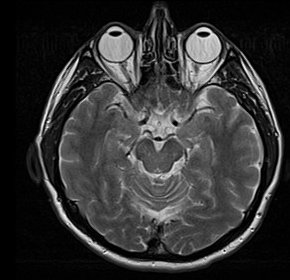
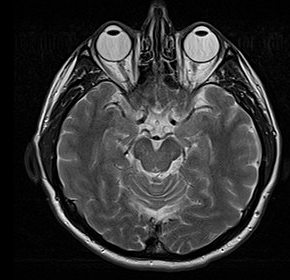
Brute Force rocks

diff --git a/BruteForce.py b/BruteForce.py
@@ -1,0 +1,108 @@
+import numpy as np
+import numpy.ma as ma
+from PIL import Image
+from interp import interpolation
+import matplotlib.pyplot as plt
+import matplotlib.colors as colr
+def readImages(u1,v1):
+	try:
+		u = np.asarray( Image.open(u1), dtype=np.float64)
+		u=u/np.max(u)
+		v = np.asarray( Image.open(v1), dtype=np.float64)
+		v=v/np.max(v)
+		return (u,v)
+	except IOError:
+		return -1
+def calcMI(up,vp,a,b):
+	MI=0
+	H,xedge,yedge = np.histogram2d(up,vp,[a,b])
+	JPDF = H/np.sum(H)
+	pdf1=np.asarray([np.sum(JPDF,1)]).T
+	pdf2=np.asarray([np.sum(JPDF,0)])
+	pdf1=np.tile(pdf1,(1,b))
+	pdf2=np.tile(pdf2,(a,1))
+	J=JPDF/(pdf1*pdf2)
+	J=ma.log(J)
+	J=JPDF*J
+	MI=np.sum(J)
+	return MI
+def pointFilt(t,points,C1,C2):
+	pointsn=points-C1
+	tran = np.matmul(t,pointsn)
+	tran =tran + C2
+	mask = np.logical_and(np.logical_and(tran[0,:] < C1[0]*2,tran[0,:] >= 0) , np.logical_and(tran[1,:] < C1[1]*2,tran[1,:] >= 0))
+	# print(mask)
+	Pu=(points.T[mask]).T
+	Pv=(tran.T[mask]).T
+	Pu=np.asarray(Pu[:2],dtype=np.int)
+	Pv=np.asarray(Pv[:2],dtype=np.int)
+	vp=v[Pv[1],Pv[0]]
+	up=u[Pu[1],Pu[0]]
+	return (up,vp)
+	# return points,tran
+
+im_1 = 'TestImages/test_mri.jpg'
+# im_2 = 'TestImages/test_mri.jpg'
+im_2 = 'TestImages/test_mri_translate2.jpg'
+# im_2 = 'TestImages/test_mri_rot2.jpg'
+# im_2 = 'TestImages/test_mri_rot.jpg'
+# im_2 = 'TestImages/test_mri_scale.jpg'
+# im_2 = 'TestImages/test_mri_shear.jpg'
+u,v=readImages(im_1,im_2)
+vintr=interpolation(v)
+# t=np.identity(3)
+t=np.array([[1,0,0],[0,1,0],[0,0,1]])
+C1=np.asarray([u.T.shape]).T/2.0
+C1=np.vstack((C1,np.zeros((1,1))))
+C2=np.asarray([u.T.shape]).T/2.0
+C2=np.vstack((C2,np.zeros((1,1))))
+pointy = np.tile(np.asarray([np.arange(u.shape[0])]).T,(1,u.shape[1]))
+pointx = np.tile(np.asarray([np.arange(u.shape[1])]),(u.shape[0],1))
+ones = np.ones(u.shape)
+points = np.stack((pointx,pointy,ones)).reshape(3,u.shape[0]*u.shape[1])
+a=101
+b=101
+m=0
+t1=0
+i1=0
+j1=0
+MI=np.zeros((9,9))
+for i in range(-20,21,5):
+	t[0][2]=i
+	for j in range(-20,21,5):
+		t[1][2]=j
+		up,vp=pointFilt(t,points,C1,C2)
+		k=calcMI(up,vp,a,b)
+		MI[(j+20)//5,(i+20)//5]=k
+		if(k>m):
+			m=k
+			t1=np.copy(t)
+	#T1 = np.linalg.inv(t)
+x = np.matmul(np.asarray([t1[:,0]]).T,np.asarray([np.tile(range(u.shape[1]), (u.shape[0], 1)).flatten()]) - u.shape[1]/2.0)
+y = np.matmul(np.asarray([t1[:,1]]).T,np.asarray([np.tile(np.array([range(u.shape[0])]).T, (1, u.shape[1])).flatten()]) - u.shape[0]/2.0)
+q = np.matmul(np.asarray([t1[:,2]]).T,np.ones((1,u.shape[0]*u.shape[1])))
+x = x + y + q + np.tile(np.array([[v.shape[1]/2.0, v.shape[0]/2.0, 0]]).T, [1,u.shape[0]*u.shape[1]])
+v1=np.zeros(u.shape[0]*u.shape[1])
+for u2 in range(0,v.shape[0]*v.shape[1]):
+  v1[u2]=vintr(x[1,u2], x[0,u2])
+v1 = v1.reshape(v.shape)
+print(v1.shape)
+plt.imshow(v1,cmap='gray');
+plt.show()
+print(MI)
+H,xedge,yedge = np.histogram2d(u.flatten(),v.flatten(),[a,b])
+JPDF = H/np.sum(H)
+pdf1=np.asarray([np.sum(JPDF,1)]).T
+pdf2=np.asarray([np.sum(JPDF,0)])
+pdf1=np.tile(pdf1,(1,b))
+pdf2=np.tile(pdf2,(a,1))
+J=JPDF/(pdf1*pdf2)
+J=ma.log(J)
+J=JPDF*J
+# MI=np.sum(J)
+print(np.sum(J))
+# for x in range(0,1):
+# # print(np.min(pdf1*pdf2))
+# # print(pdf2)
+# # print(JPDF)
+# # print(xedge)
